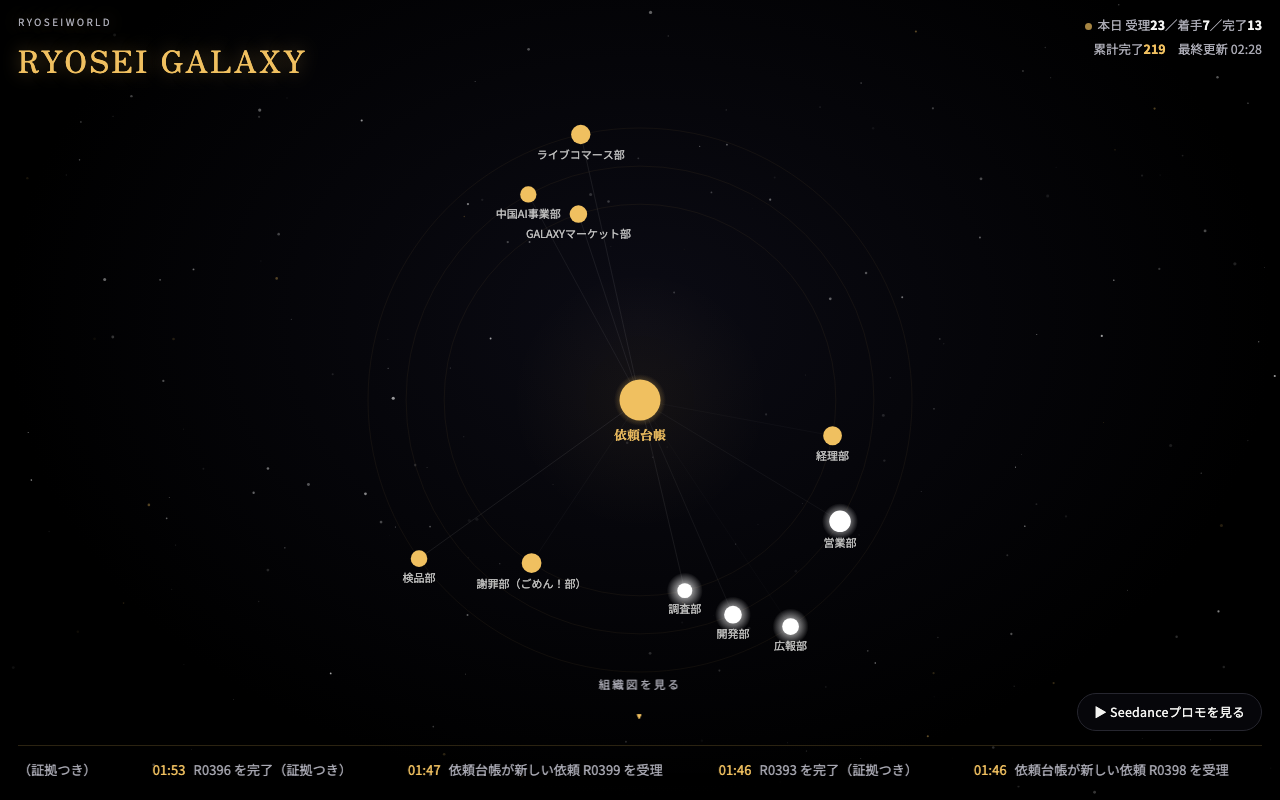
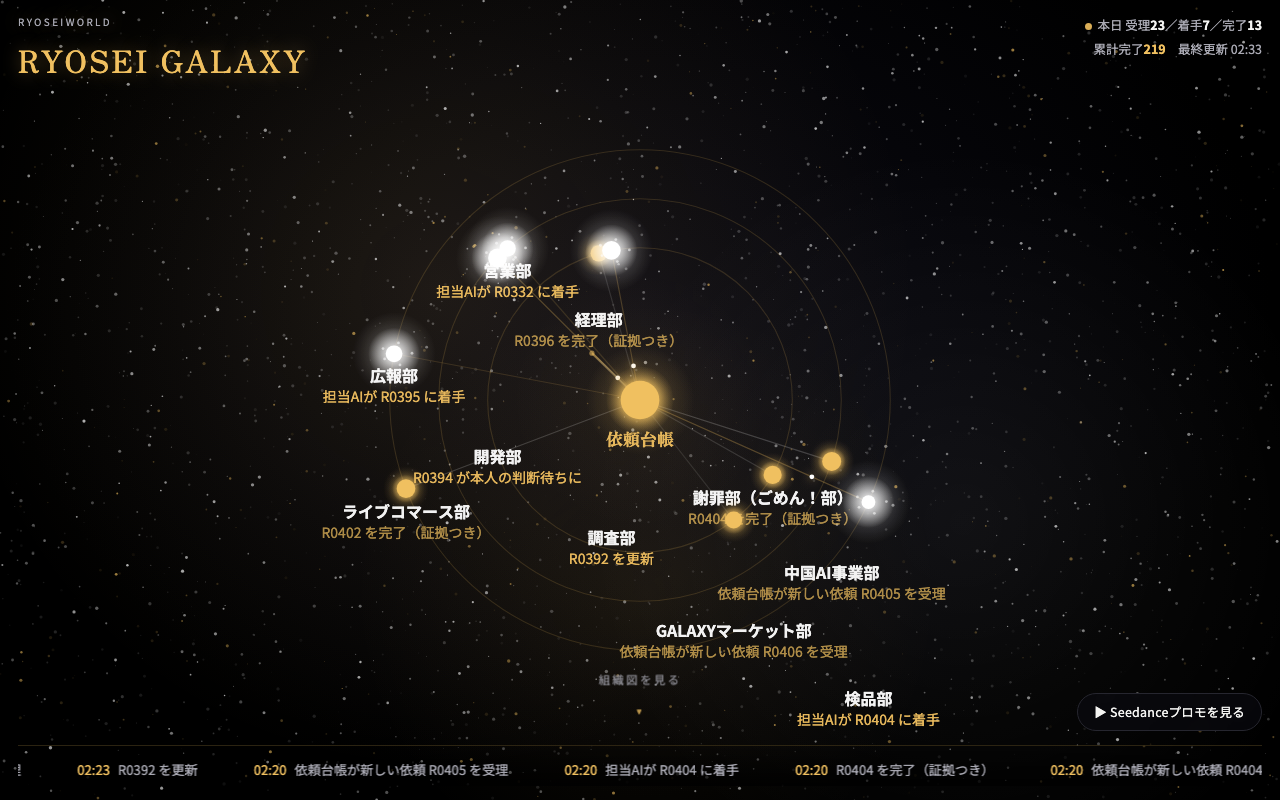
v2 review pass: denser galaxy, nebula, always-on motion, mobile label fix
Claude-Session: https://claude.ai/code/session_017jk5o1QXdgjpUc5kA5BBkU

diff --git a/index.html b/index.html
@@ -512,52 +512,83 @@
   var bgParticles = [];
   function initBgParticles(){
     var area = W * H;
-    var base = Math.round(area / 5200);
-    var count = reduceMotion ? Math.round(base * 0.35) : base;
-    count = Math.max(60, Math.min(count, 420));
+    var isMobile = W < 600;
+    var base = Math.round(area / 340);
+    var count = reduceMotion ? Math.round(base * 0.3) : base;
+    count = isMobile ? Math.max(600, Math.min(count, 1000)) : Math.max(2000, Math.min(count, 4000));
     bgParticles = [];
     for(var i=0;i<count;i++){
       bgParticles.push({
         x: Math.random()*W,
         y: Math.random()*H,
-        r: Math.random()*1.3 + 0.3,
-        a: Math.random()*0.5 + 0.15,
+        r: Math.random()*1.4 + 0.3,
+        a: Math.random()*0.55 + 0.15,
         vx: (Math.random()-0.5)*0.06,
         vy: (Math.random()-0.5)*0.06,
         tw: Math.random()*Math.PI*2,
-        gold: Math.random() < 0.12
+        gold: Math.random() < 0.14
       });
     }
   }
 
-  /* ================= 部署ノード（軌道） ================= */
+  /* ================= 星雲レイヤー（背景の帯） ================= */
+  var NEBULAE = [
+    {dx:-0.22, dy:-0.14, rr:0.62, color:'240,192,96', baseA:0.10, speed:0.000006, phase:0},
+    {dx:0.28,  dy:0.10,  rr:0.55, color:'255,255,255', baseA:0.055, speed:-0.000009, phase:2.1},
+    {dx:0.02,  dy:0.30,  rr:0.5,  color:'240,192,96', baseA:0.08, speed:0.000011, phase:4.4}
+  ];
+  function drawNebulae(now){
+    var minSide = Math.min(W, H);
+    NEBULAE.forEach(function(neb){
+      var ang = now * neb.speed + neb.phase;
+      var swirl = 0.06;
+      var nx = CX + (neb.dx + Math.cos(ang)*swirl) * W;
+      var ny = CY + (neb.dy + Math.sin(ang)*swirl) * H;
+      var breathe = 0.85 + 0.15*Math.sin(now*0.00018 + neb.phase);
+      var radius = minSide * neb.rr * breathe;
+      var g = ctx.createRadialGradient(nx, ny, 0, nx, ny, radius);
+      g.addColorStop(0, 'rgba(' + neb.color + ',' + neb.baseA + ')');
+      g.addColorStop(0.55, 'rgba(' + neb.color + ',' + (neb.baseA*0.4) + ')');
+      g.addColorStop(1, 'rgba(' + neb.color + ',0)');
+      ctx.fillStyle = g;
+      ctx.beginPath();
+      ctx.arc(nx, ny, radius, 0, Math.PI*2);
+      ctx.fill();
+    });
+  }
+
+  /* ================= 部署ノード（軌道・2〜3段リングでラベル衝突を回避） ================= */
   var nodes = [];
   function layoutNodes(){
     var minSide = Math.min(W, H);
     var orbitR = minSide * 0.34;
     var n = DEPTS.length - 1; // ハブ以外
+    var isMobileLayout = minSide < 500 || W < 600;
+    var ringR = isMobileLayout ? [0.48, 0.72, 0.98] : [0.56, 0.74, 0.92]; // 3段リング
     nodes = DEPTS.map(function(d, i){
       var prev = nodes[i];
       if(i === HUB_INDEX){
         return {
           def:d, isHub:true, x:CX, y:CY, angle:0, radius:0,
-          state:'idle', pulse:0, burst:[], since:0, current:''
+          state:'idle', pulse:0, burst:[], since:0, current:'', shuttleSeed: Math.random()*10
         };
       }
-      var idx = i; // ハブを除いた角度配分はそのままindexベースでOK(見た目に大差なし)
-      var angle = prev ? prev.angle : (idx / n) * Math.PI * 2;
-      var r = orbitR * (0.72 + 0.28 * ((idx % 3) / 2));
+      var idx = i;
+      var ring = idx % 3;
+      var angle = prev ? prev.angle : (idx / n) * Math.PI * 2 + ring * 0.35;
+      var r = orbitR * ringR[ring];
       return {
         def:d, isHub:false,
         angle: angle,
         radius: r,
-        speed: (0.00012 + (idx % 5) * 0.00003) * (idx % 2 === 0 ? 1 : -1),
+        speed: (0.00010 + (idx % 5) * 0.00003) * (idx % 2 === 0 ? 1 : -1),
         x:0, y:0,
         state: prev ? prev.state : 'idle',
         current: prev ? prev.current : '',
         since: prev ? prev.since : 0,
         pulse: prev ? prev.pulse : Math.random()*Math.PI*2,
-        burst: prev ? prev.burst : []
+        burst: prev ? prev.burst : [],
+        shuttleSeed: prev ? prev.shuttleSeed : Math.random()*10
       };
     });
   }
@@ -598,6 +629,18 @@
   function spawnRing(idx){
     var target = nodes[idx];
     rings.push({x:target.x, y:target.y, t:0, dur:1600});
+  }
+
+  var lastAmbient = 0;
+  function ambientTick(now){
+    if(reduceMotion) return;
+    if(!lastAmbient) lastAmbient = now;
+    if(now - lastAmbient < (2200 + Math.random()*2600)) return;
+    lastAmbient = now;
+    var idx = Math.floor(Math.random() * (nodes.length - 1)); // ハブを除く
+    var hub = nodes[HUB_INDEX];
+    var target = nodes[idx];
+    beams.push({fx:hub.x, fy:hub.y, tx:target.x, ty:target.y, t:0, dur:1100, color:'rgba(240,192,96,0.55)', kind:'ambient'});
   }
 
   function applyEvent(ev){
@@ -696,6 +739,35 @@
     });
   }
 
+  /* ================= ラベル衝突回避 ================= */
+  var placedLabelsRef = []; // draw()内で毎フレーム差し替えられる参照
+  function placeLabel(x, textWidth, baseY, height){
+    var y = baseY;
+    var tries = 0;
+    var pad = 10;
+    while(tries < 12){
+      var overlap = placedLabelsRef.some(function(rect){
+        var overlapX = !(x + textWidth/2 + pad < rect.x - rect.w/2 || x - textWidth/2 - pad > rect.x + rect.w/2);
+        var overlapY = Math.abs(y - rect.y) < height;
+        return overlapX && overlapY;
+      });
+      if(!overlap) break;
+      y += height;
+      tries++;
+    }
+    placedLabelsRef.push({x:x, y:y, w:textWidth});
+    return y;
+  }
+
+  function truncateToWidth(ctx2, text, maxWidth){
+    if(ctx2.measureText(text).width <= maxWidth) return text;
+    var t = text;
+    while(t.length > 1 && ctx2.measureText(t + '…').width > maxWidth){
+      t = t.slice(0, -1);
+    }
+    return t + '…';
+  }
+
   /* ================= 描画ループ ================= */
   var lastFrame = 0;
   function draw(now){
@@ -704,6 +776,9 @@
     lastFrame = now;
 
     ctx.clearRect(0, 0, W, H);
+
+    // 星雲（背景の帯・ゆっくり回転・呼吸）
+    drawNebulae(now);
 
     // 背景粒子
     for(var i=0;i<bgParticles.length;i++){
@@ -731,15 +806,19 @@
     }
 
     // 軌道線
-    ctx.strokeStyle = 'rgba(240,192,96,0.06)';
-    ctx.lineWidth = 1;
+    ctx.lineWidth = 1.1;
     var minSide = Math.min(W, H);
     var orbitR = minSide * 0.34;
+    var ringR = (minSide < 500 || W < 600) ? [0.48, 0.72, 0.98] : [0.56, 0.74, 0.92];
     for(var oi=0; oi<3; oi++){
+      ctx.strokeStyle = 'rgba(240,192,96,0.16)';
       ctx.beginPath();
-      ctx.arc(CX, CY, orbitR * (0.72 + 0.28*(oi/2)), 0, Math.PI*2);
+      ctx.arc(CX, CY, orbitR * ringR[oi], 0, Math.PI*2);
       ctx.stroke();
     }
+
+    // 常時の微弱パルス（イベントが無い間もハブ→ランダムなノードへ）
+    ambientTick(now);
 
     // ノード位置更新
     for(i=0;i<nodes.length;i++){
@@ -750,18 +829,33 @@
       n.y = CY + Math.sin(n.angle) * n.radius;
     }
 
-    // 接続線（ハブ⇄各ノード、常時薄く）
-    ctx.lineWidth = 1;
+    // 接続線（ハブ⇄各ノード、常時見える濃さで明滅）
+    ctx.lineWidth = 1.2;
     for(i=0;i<nodes.length;i++){
       var nn = nodes[i];
       if(nn.isHub) continue;
       var hub = nodes[HUB_INDEX];
-      var flick = 0.05 + 0.03*Math.sin(now*0.001 + i);
-      ctx.strokeStyle = 'rgba(255,255,255,' + flick + ')';
+      var isWorking = nn.state === 'working';
+      var flick = (isWorking ? 0.22 : 0.12) + 0.08*Math.sin(now*0.0012 + i);
+      ctx.strokeStyle = isWorking ? ('rgba(240,192,96,' + flick + ')') : ('rgba(255,255,255,' + flick + ')');
       ctx.beginPath();
       ctx.moveTo(hub.x, hub.y);
       ctx.lineTo(nn.x, nn.y);
       ctx.stroke();
+
+      // 稼働中ノード: ハブ⇄ノードを常時往復する光の粒
+      if(isWorking){
+        var shuttleT = (Math.sin(now*0.0009 + nn.shuttleSeed) + 1) / 2;
+        var sx = hub.x + (nn.x - hub.x) * shuttleT;
+        var sy = hub.y + (nn.y - hub.y) * shuttleT;
+        ctx.beginPath();
+        ctx.fillStyle = '#fff';
+        ctx.shadowColor = 'rgba(240,192,96,0.9)';
+        ctx.shadowBlur = 10;
+        ctx.arc(sx, sy, 2.4, 0, Math.PI*2);
+        ctx.fill();
+        ctx.shadowBlur = 0;
+      }
     }
 
     // ビーム
@@ -817,6 +911,10 @@
     });
 
     // ノード描画
+    placedLabelsRef = []; // ラベル衝突回避用（このフレームでの配置済み矩形）
+    var hubNode = nodes[HUB_INDEX];
+    ctx.font = 'bold 17px "Zen Old Mincho", serif';
+    placedLabelsRef.push({x:hubNode.x, y:hubNode.y + 46, w: ctx.measureText('依頼台帳').width});
     for(i=0;i<nodes.length;i++){
       var node = nodes[i];
       node.pulse += (node.state === 'working' ? 0.05 : 0.018) * (dt/16.7);
@@ -830,52 +928,97 @@
       }
 
       var color = node.isHub ? '240,192,96' : (node.state === 'working' ? '255,255,255' : '240,192,96');
-      var glow = node.isHub ? 26 : (node.state === 'working' ? 18 : 9);
+      var glow = node.isHub ? 34 : (node.state === 'working' ? 26 : 14);
+
+      // 多段グロー（外側の淡いハローと内側の濃いハロー）
+      var gOuter = ctx.createRadialGradient(node.x, node.y, 0, node.x, node.y, glow*1.6);
+      gOuter.addColorStop(0, 'rgba(' + color + ',0.28)');
+      gOuter.addColorStop(1, 'rgba(' + color + ',0)');
+      ctx.fillStyle = gOuter;
+      ctx.beginPath();
+      ctx.arc(node.x, node.y, glow*1.6, 0, Math.PI*2);
+      ctx.fill();
 
       var g = ctx.createRadialGradient(node.x, node.y, 0, node.x, node.y, glow);
-      g.addColorStop(0, 'rgba(' + color + ',0.9)');
+      g.addColorStop(0, 'rgba(' + color + ',0.95)');
       g.addColorStop(1, 'rgba(' + color + ',0)');
       ctx.fillStyle = g;
       ctx.beginPath();
       ctx.arc(node.x, node.y, glow, 0, Math.PI*2);
       ctx.fill();
 
+      ctx.save();
+      ctx.shadowColor = 'rgba(' + color + ',0.95)';
+      ctx.shadowBlur = node.state === 'working' ? 22 : 12;
       ctx.beginPath();
       ctx.fillStyle = 'rgba(' + color + ',1)';
       ctx.arc(node.x, node.y, Math.max(r, 3), 0, Math.PI*2);
       ctx.fill();
+      ctx.restore();
+
+      // 稼働中ノード: 周囲を渦巻く小粒子
+      if(node.state === 'working' && !node.isHub){
+        var swirlCount = 5;
+        for(var si=0; si<swirlCount; si++){
+          var sAng = now*0.0016 + (si/swirlCount)*Math.PI*2;
+          var sRad = 15 + 3*Math.sin(now*0.002 + si);
+          var swx = node.x + Math.cos(sAng)*sRad;
+          var swy = node.y + Math.sin(sAng)*sRad*0.7;
+          ctx.beginPath();
+          ctx.fillStyle = 'rgba(255,255,255,0.55)';
+          ctx.arc(swx, swy, 1.4, 0, Math.PI*2);
+          ctx.fill();
+        }
+      }
 
       // バースト（完了時の粒子）
       node.burst = node.burst.filter(function(b){
         b.t += dt;
         var progress = b.t / b.dur;
         if(progress >= 1) return false;
-        var count = 8;
+        var count = 10;
         for(var bi=0; bi<count; bi++){
           var ang = (bi/count) * Math.PI*2;
-          var dist = progress * 28;
+          var dist = progress * 32;
           var bx = node.x + Math.cos(ang)*dist;
           var by = node.y + Math.sin(ang)*dist;
           ctx.beginPath();
           ctx.fillStyle = 'rgba(240,192,96,' + (1-progress) + ')';
-          ctx.arc(bx, by, 2, 0, Math.PI*2);
+          ctx.arc(bx, by, 2.2, 0, Math.PI*2);
           ctx.fill();
         }
         return true;
       });
 
-      // ラベル
+      // ラベル（部署名16px白＋状態行14px、重なる場合は下にずらす）
       if(!node.isHub){
-        ctx.font = '11px "Noto Sans JP", sans-serif';
-        ctx.fillStyle = 'rgba(244,244,242,0.75)';
+        var nameSize = 16;
+        var subSize = 14;
+        var maxLabelWidth = W < 600 ? Math.min(W * 0.34, 150) : Math.min(W * 0.42, 230);
+        ctx.font = 'bold ' + nameSize + 'px "Noto Sans JP", sans-serif';
+        var nameText = truncateToWidth(ctx, node.def.name, maxLabelWidth);
+        var nameWidth = ctx.measureText(nameText).width;
+        var stateLabel = node.state === 'working' ? '稼働中' : (node.state === 'done' ? '完了直後' : '待機中');
+        ctx.font = subSize + 'px "Noto Sans JP", sans-serif';
+        var subText = truncateToWidth(ctx, (node.current ? node.current : stateLabel), maxLabelWidth);
+        var subWidth = ctx.measureText(subText).width;
+        var textWidth = Math.max(nameWidth, subWidth);
+        var lineH = nameSize + subSize + 8;
+        var baseY = node.y + r + 20;
+        var placedY = placeLabel(node.x, textWidth, baseY, lineH + 6);
+
         ctx.textAlign = 'center';
-        var labelY = node.y + r + 15;
-        ctx.fillText(node.def.name, node.x, labelY);
+        ctx.font = 'bold ' + nameSize + 'px "Noto Sans JP", sans-serif';
+        ctx.fillStyle = 'rgba(255,255,255,0.95)';
+        ctx.fillText(nameText, node.x, placedY);
+        ctx.font = subSize + 'px "Noto Sans JP", sans-serif';
+        ctx.fillStyle = node.state === 'working' ? 'rgba(240,192,96,0.95)' : 'rgba(240,192,96,0.7)';
+        ctx.fillText(subText, node.x, placedY + subSize + 6);
       } else {
-        ctx.font = 'bold 13px "Zen Old Mincho", serif';
+        ctx.font = 'bold 17px "Zen Old Mincho", serif';
         ctx.fillStyle = 'rgba(240,192,96,0.95)';
         ctx.textAlign = 'center';
-        ctx.fillText('依頼台帳', node.x, node.y + 40);
+        ctx.fillText('依頼台帳', node.x, node.y + 46);
       }
     }
 
@@ -979,6 +1122,7 @@
       if(!n) return;
       if(a.state === 'working') n.state = 'working';
       else if(a.state === 'done') n.state = 'done';
+      else if(a.state === 'idle' && n.state !== 'working') n.state = 'idle';
       if(a.current) n.current = a.current;
     });
   }
